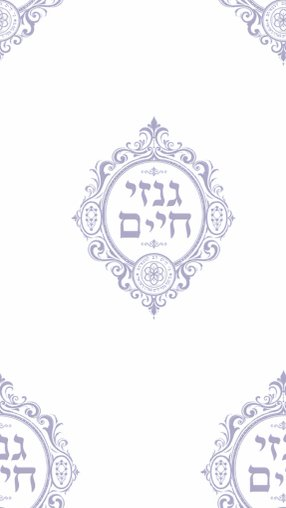
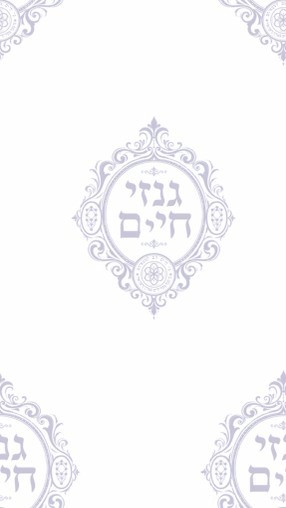
רקע האתר לפי Site bckgnd V3
- assets/paper.jpg: הנייר מוצג ב-85% (בהיר ורך יותר), כמו בקובץ V3
- assets/pattern.jpg: דוגמת הסמל ב-20% multiply (במקום 30% ב-V2), באותו מרווח וגודל
- הכותרת והסמלים בצדדים לא השתנו ב-V3
- ?v=3 על קבצי הרקע כדי שדפדפנים לא יציגו את הישנים מהמטמון

Claude-Session: https://claude.ai/code/session_01Fx6mpWG3PcXSqyFRPY7ehN

diff --git a/index.html b/index.html
@@ -83,21 +83,21 @@
     min-height:100vh;
     transition:background .2s ease, color .2s ease;
   }
-  /* רקע האתר: נייר צבעי מים + דוגמת סמל "גנזי חיים" (לפי Site bckgnd V2.pdf: דוגמה ב-30%) */
+  /* רקע האתר: נייר צבעי מים + דוגמת סמל "גנזי חיים" (לפי Site bckgnd V3.pdf: נייר ב-85%, דוגמה ב-20%) */
   body::before{
     content:"";
     position:fixed;
     inset:0;
     z-index:-1;
     pointer-events:none;
-    background-image:linear-gradient(rgba(9,14,30,.8),rgba(9,14,30,.8)), url("assets/pattern.jpg?v=2"), url("assets/paper.jpg?v=2");
+    background-image:linear-gradient(rgba(9,14,30,.8),rgba(9,14,30,.8)), url("assets/pattern.jpg?v=3"), url("assets/paper.jpg?v=3");
     background-size:auto, 107px 190px, cover;
     background-position:0 0, 0 0, center;
     background-repeat:no-repeat, repeat, no-repeat;
     background-blend-mode:normal, multiply, normal;
   }
   :root[data-theme="light"] body::before{
-    background-image:url("assets/pattern.jpg?v=2"), url("assets/paper.jpg?v=2");
+    background-image:url("assets/pattern.jpg?v=3"), url("assets/paper.jpg?v=3");
     background-size:107px 190px, cover;
     background-position:0 0, center;
     background-repeat:repeat, no-repeat;
@@ -813,9 +813,9 @@
 <header>
   <button id="themeToggle" class="theme-toggle" title="החלף מצב תצוגה"></button>
   <div class="brand">
-    <img class="brand-emblem" src="assets/emblem.webp?v=2" alt="" aria-hidden="true" width="300" height="408">
-    <h1 id="siteTitle"><img class="brand-title" src="assets/title.webp?v=2" alt="גנזי חיים" width="900" height="224"></h1>
-    <img class="brand-emblem" src="assets/emblem.webp?v=2" alt="" aria-hidden="true" width="300" height="408">
+    <img class="brand-emblem" src="assets/emblem.webp?v=3" alt="" aria-hidden="true" width="300" height="408">
+    <h1 id="siteTitle"><img class="brand-title" src="assets/title.webp?v=3" alt="גנזי חיים" width="900" height="224"></h1>
+    <img class="brand-emblem" src="assets/emblem.webp?v=3" alt="" aria-hidden="true" width="300" height="408">
   </div>
   <p id="siteSubtitle">שיעורי הרב יואל חקון</p>
   <p class="stats" id="statsLine"></p>
